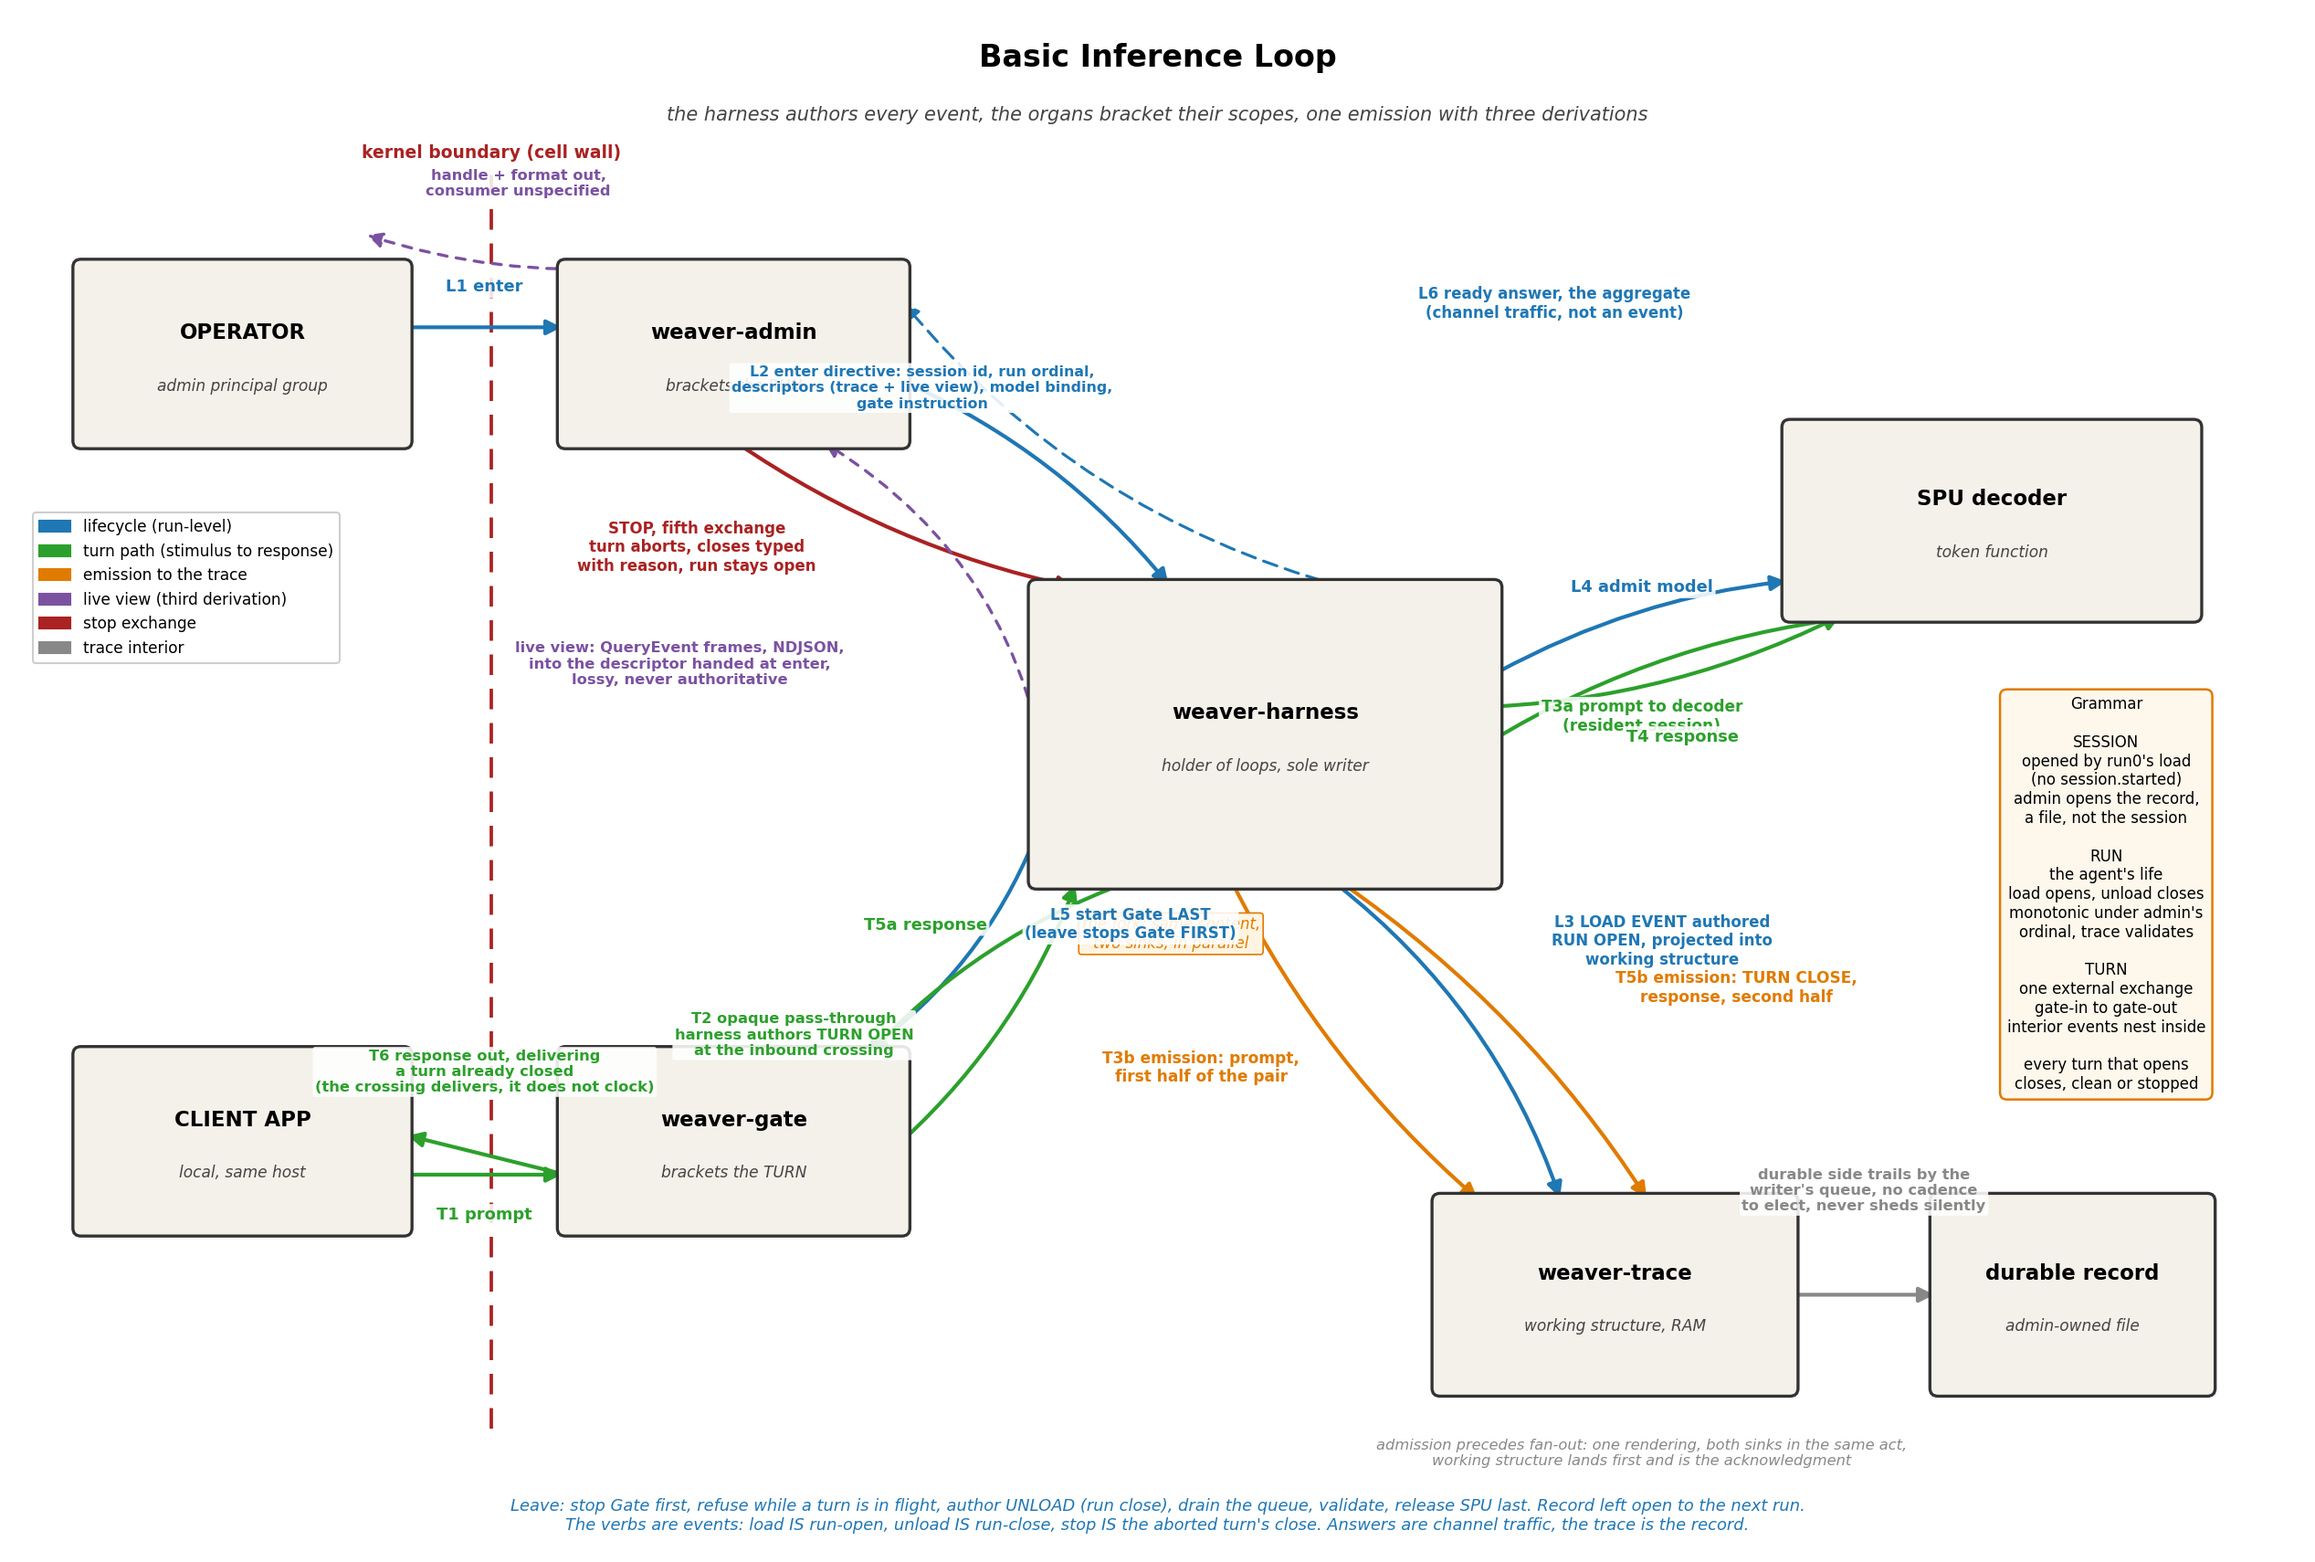
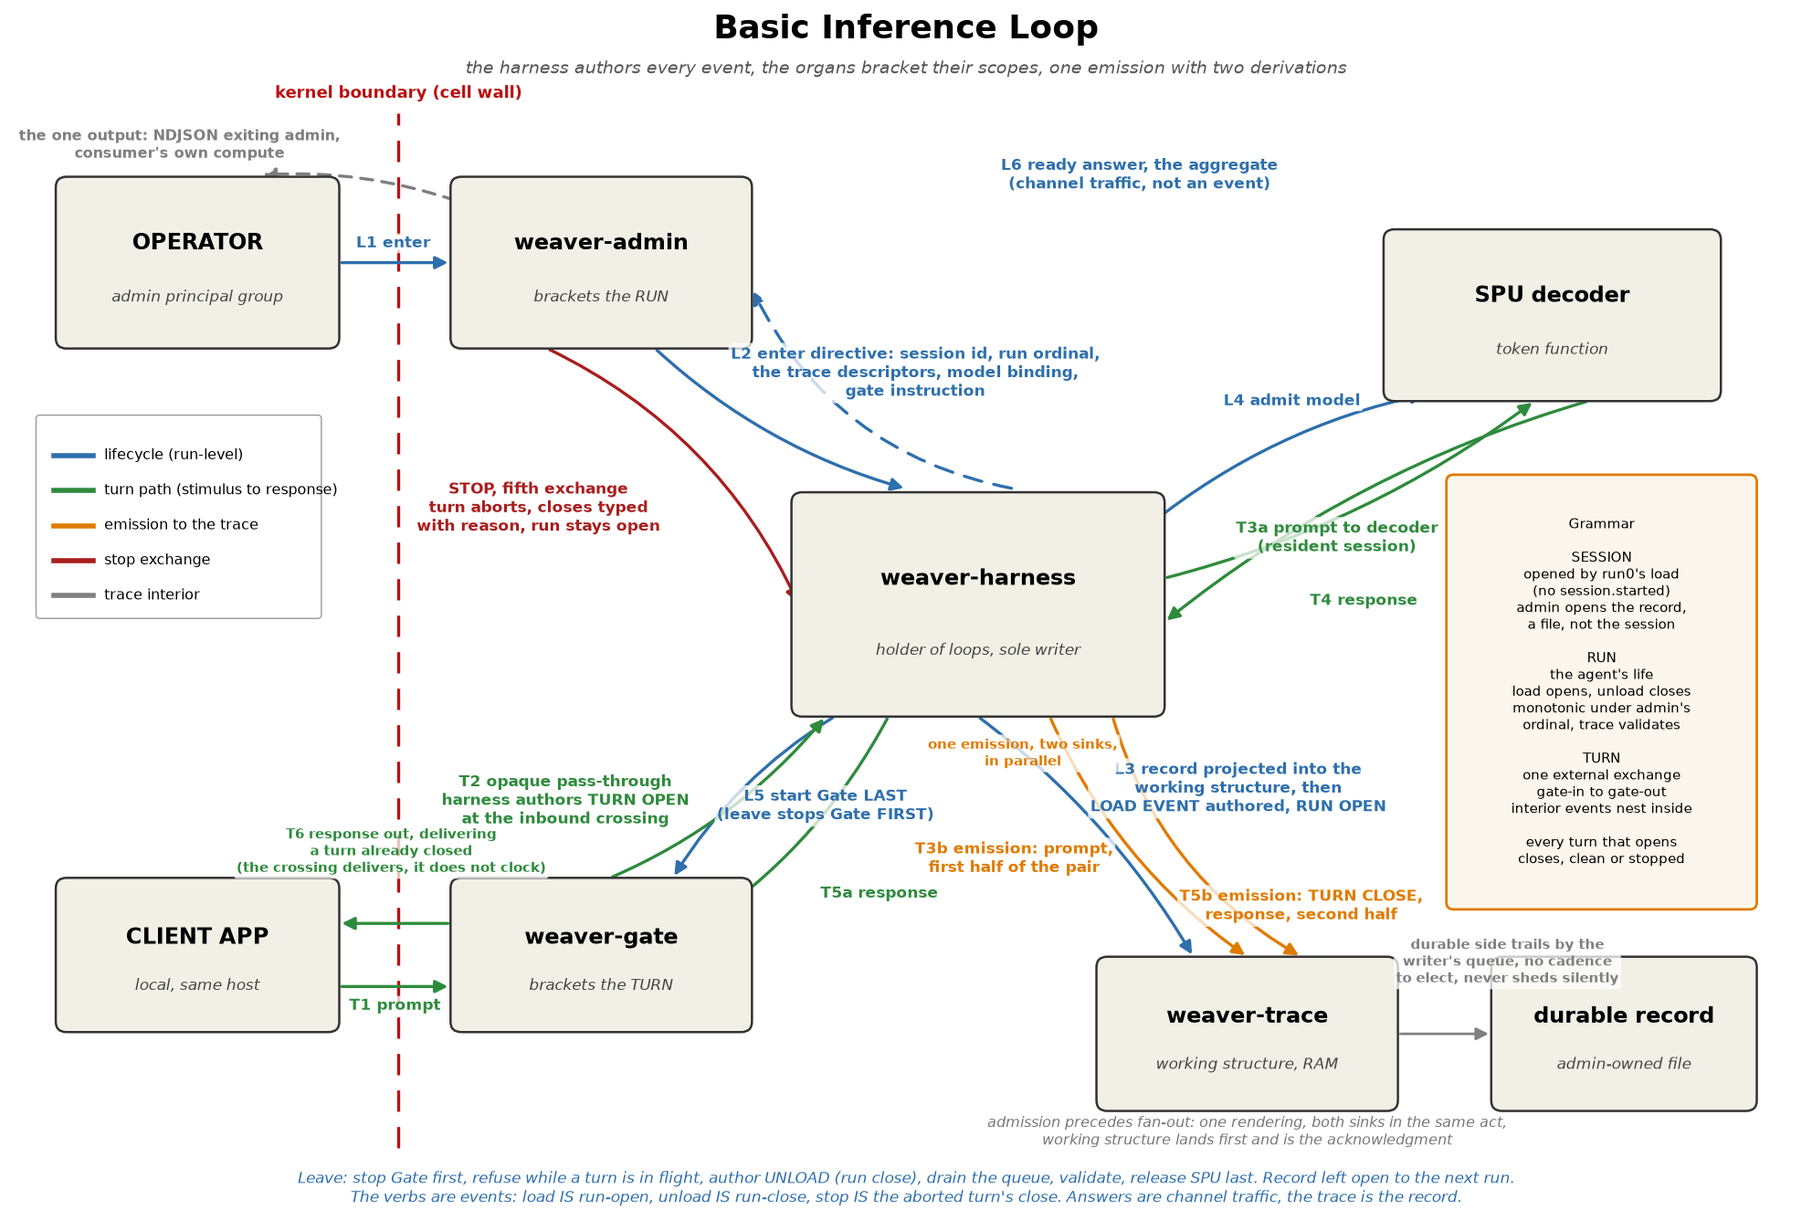
docs: run the post-merge sweep
Strikes the loop document's rulings register as landed and its merged-count
line, redraws the diagram carrying the enter ordering, the live view's
retirement under ruling A, and the label collision fix, and moves the batch
of 2026-07-31 from the working tree to merged in the Working Process map.
The resolved open-items entries leave the untracked working list on disk.

diff --git a/docs/crates/weaver-harness/Loops/basic-inference-loop.md b/docs/crates/weaver-harness/Loops/basic-inference-loop.md
@@ -1,6 +1,11 @@
 # Basic Inference Loop
 
-**Status:** DRAFT v0.7, 2026-07-31. The register gains ruling C's entry, held apart
+**Status:** DRAFT v0.8, 2026-08-01. The post-merge sweep of the open-items list: the
+batch of 2026-07-31 merged to main, the rulings register below is struck as landed,
+section 3 stops counting the stop exchange as unmerged, and the diagram redraws
+carrying the enter ordering of v0.5, the live view's retirement under ruling A, and
+the label collision fix. Previously v0.7, 2026-07-31. The register gains ruling C's
+entry, held apart
 from rulings A and B because it overturns an apex binding and they do not, the
 device-arbitration subtraction touching no content in this document. Previously
 v0.6, the subtraction batch: the live view is retired
@@ -24,6 +29,10 @@ graph block here would duplicate a record that already has a home.
 **Editorial:** Per the Working Rules.
 
 ## Rulings of 2026-07-31, landed by the batch of this date
+
+**Struck 2026-08-01. The batch merged and every landing below is history rather than
+work owed.** The block stays for provenance, per the strike convention, so a reader
+of an earlier revision can tell a landed ruling from one never made.
 
 This document is written against four rulings made in session on this date, and the
 batch of this date lands their edits in the documents this register names. The
@@ -188,10 +197,10 @@ and opens an exchange. The monitoring is the outside's job. The verb is admin's.
 ## 3. The lifecycle
 
 Admin's chartered verb set is load, unload, and validate, per `weaver-admin-PRD`
-section 4. This loop walks load and unload, adds the stop exchange of ruling 1,
-and never reaches validate, which starts no process and joins no loop. Three
-operator acts, then, all crossing at admin, carried by the exchanges of
-`weaver-admin-harness-contract` section 3. Two are merged. The third is ruling 1.
+section 4. This loop walks load and unload, adds the stop exchange, and never
+reaches validate, which starts no process and joins no loop. Three operator acts,
+then, all crossing at admin, carried by the exchanges of
+`weaver-admin-harness-contract` section 3, and all three are merged.
 
 **Enter the run.** Admin resolves the session, opens the record under its own
 principal, and directs the harness to enter, supplying the session identity, the
@@ -214,9 +223,10 @@ finalized, which is why session close is a separate cell. Per contract section 3
 and `weaver-admin-PRD` section 4.2. Gate last up, Gate first down: the agent is
 never reachable while its interior is half built or half torn down.
 
-**Stop.** The fifth exchange, ruling 1. Admin conveys the operator's intent to
-stop, one bit, no work. The harness aborts the current turn, the turn closes with
-the stop reason marked, the run stays open, and the agent takes the next prompt.
+**Stop.** The fifth exchange, per contract section 3. Admin conveys the operator's
+intent to stop, one bit, no work. The harness aborts the current turn, the turn
+closes with the stop reason marked, the run stays open, and the agent takes the next
+prompt.
 The harness answers with the turn's fate, aborted or nothing in flight, both clean
 closes. Stop is a turn-level interruption exposed on the run-level organ because
 the operator has no seat inside the gate exchange, and `weaver-harness-PRD`

diff --git a/process/WeaverTools-Working-Process.md b/process/WeaverTools-Working-Process.md
@@ -1,8 +1,10 @@
 # WeaverTools Working Process
 
-**Version:** v0.7, 2026-07-31. The v0.7 change redraws section 7's map to the tree
-of this date, three passes having merged against a map that still read the admin
-pass as next, and corrects this header's pointer at that section from six to seven.
+**Version:** v0.8, 2026-08-01. The v0.8 change is section 7's post-merge redraw,
+the batch of 2026-07-31 moving from the working tree to merged and the gate pair
+standing as the draft it is. The v0.7 change redrew section 7's map to the tree
+of 2026-07-31, three passes having merged against a map that still read the admin
+pass as next, and corrected this header's pointer at that section from six to seven.
 The v0.6 change was section 2's stub ruling and gate G7.
 Companion to the Working Rules, the Document Format, and
 the Handoff Format. The apex says what we are building. The Working Rules say how we
@@ -281,13 +283,13 @@ member, `weaver-traits` and `weaver-types` as the floor, `weaver-admin`, and
 contracts are merged beside them, coordination, trace production, and residency,
 with `weaver-organ-channel` as the drawn material the organ contracts share.
 
-In the working tree and not yet merged: the rulings batch of 2026-07-31, carrying
-the stop exchange and the close kind, the subtraction batches of the same date
-retiring the live view, the integrity witness, and admin's device arbitration, the
-apex's conflict binding relocated to SPU admission, the `basic-inference-loop`
-workflow pair under the harness's `Loops/` directory, and the `weaver-gate` pair,
-re-drafted under the demotion ruling of that date, the organ's job simplified to a
-local hook and its standing unchanged.
+The batch of 2026-07-31 merged to `main` on 2026-08-01: the stop exchange and the
+close kind, the subtraction rulings retiring the live view, the integrity witness,
+and admin's device arbitration, the apex's conflict binding relocated to SPU
+admission, and the `basic-inference-loop` workflow pair under the harness's
+`Loops/` directory. The `weaver-gate` pair rides in the tree as a draft carrying no
+decisions, re-drafted under the demotion ruling of that date, the organ's job
+simplified to a local hook and its standing unchanged, and its merge remains below.
 
 What remains in this phase: the fault-carrier ruling, which holds the alert
 rerouting and the bracket semantic, the gate pair's merge, the apex re-authoring,
